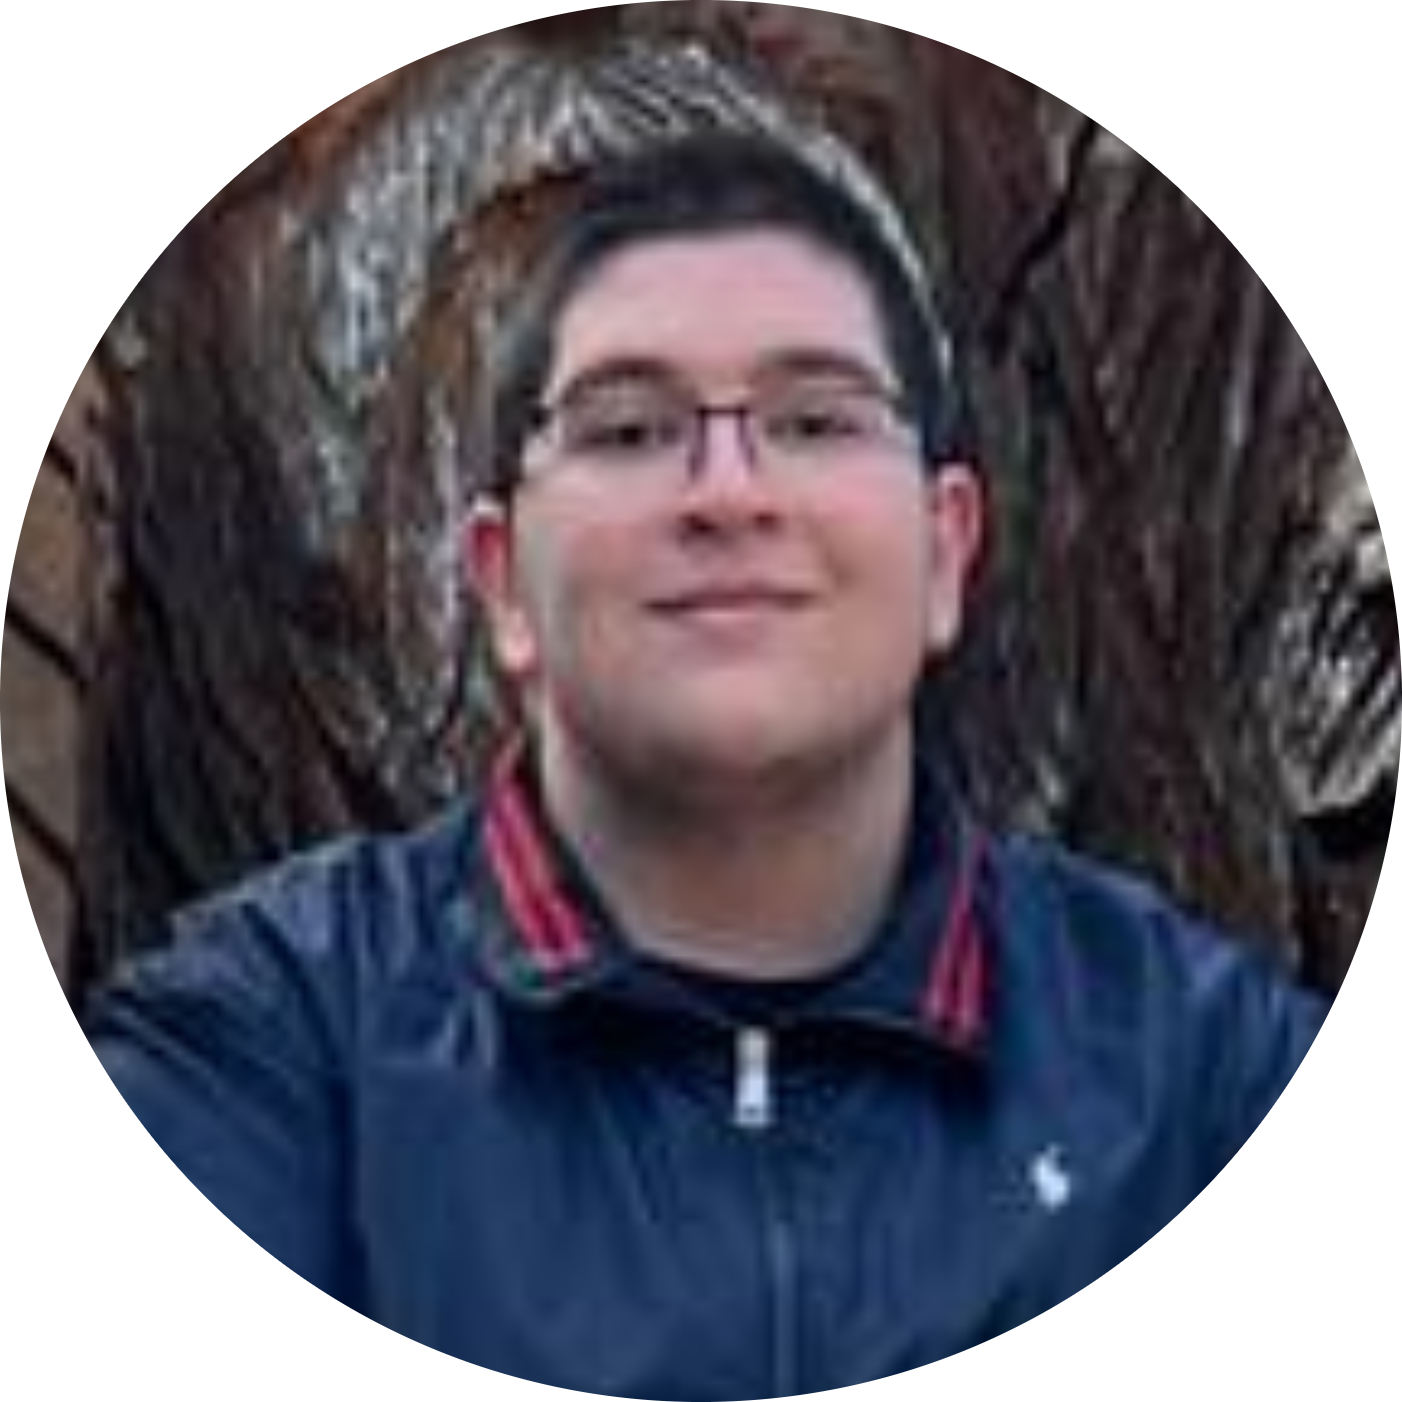
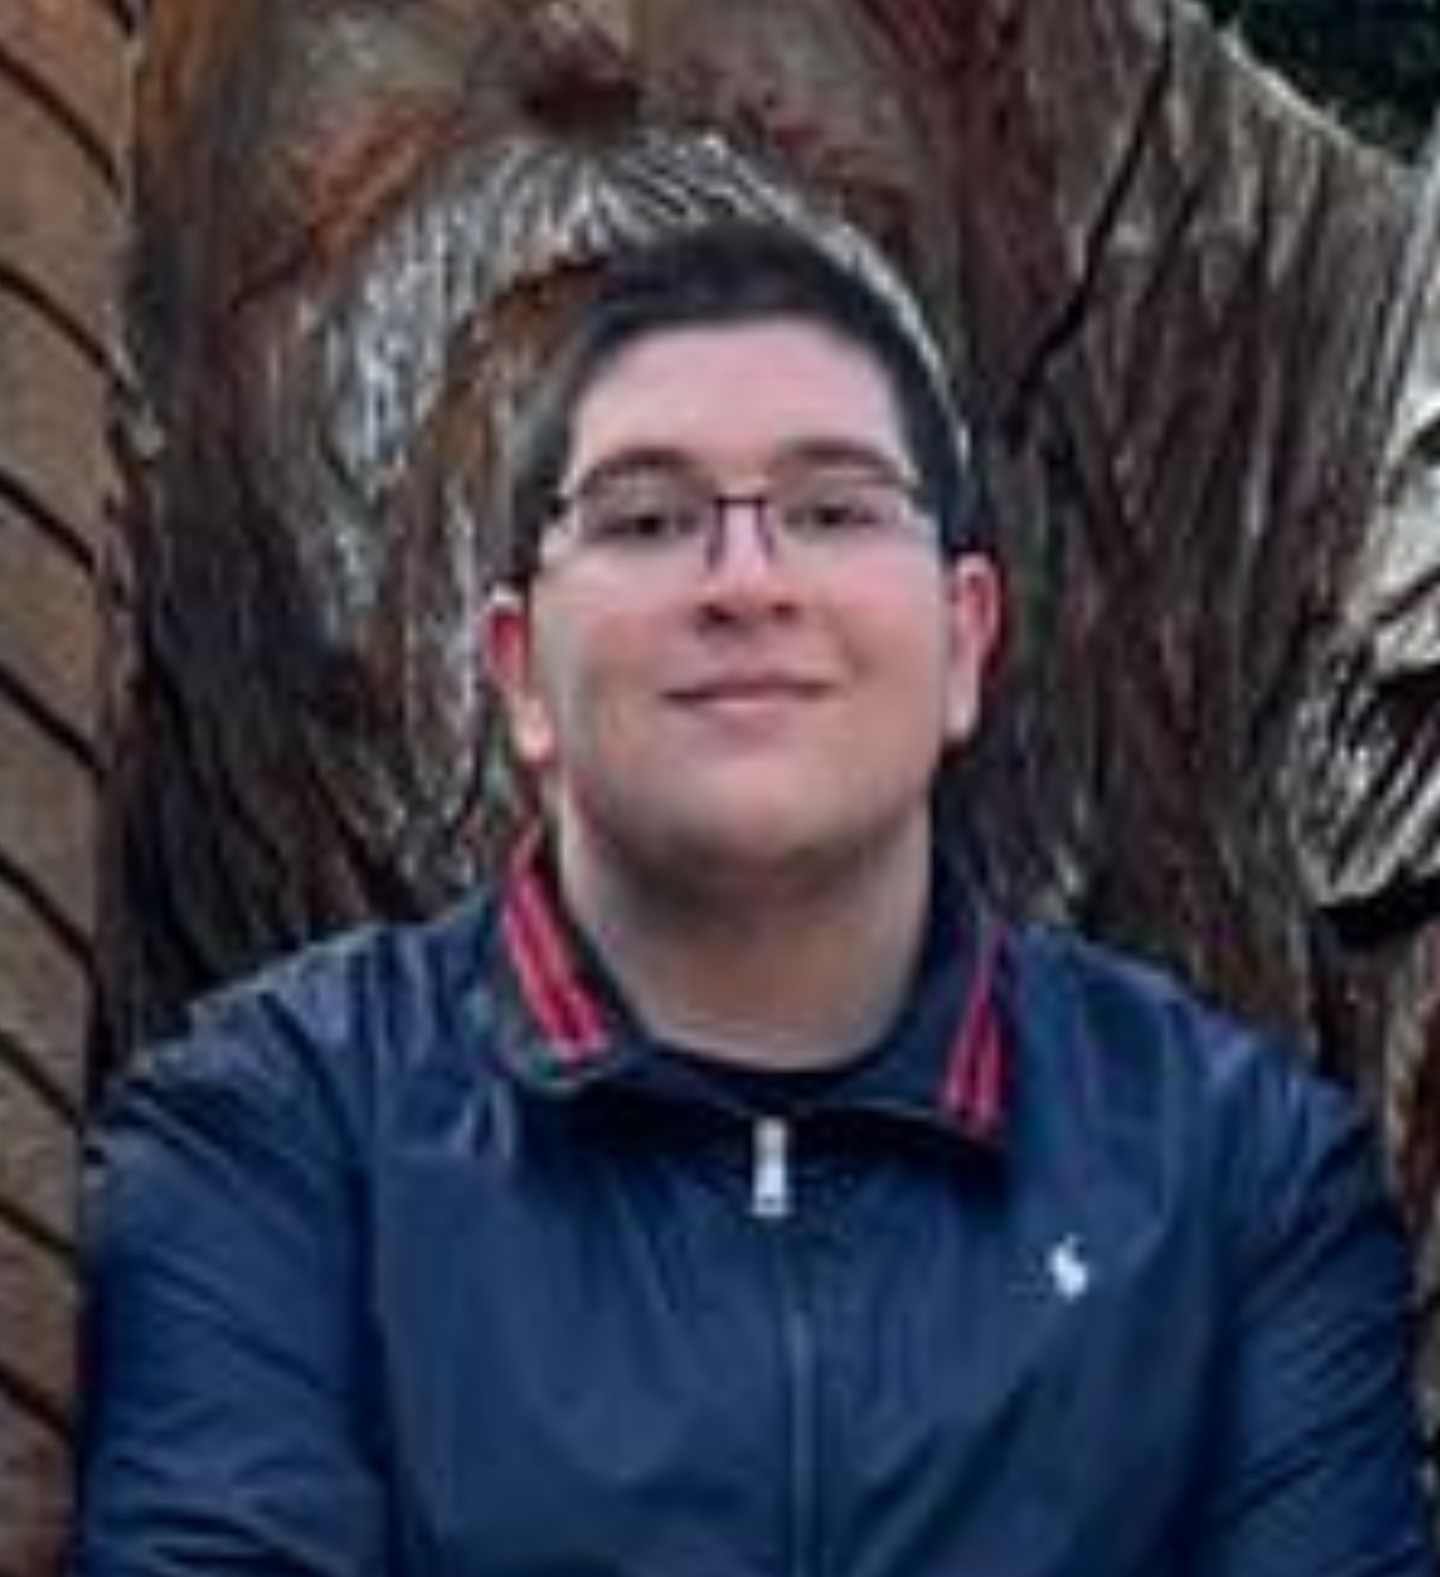
updated team page

diff --git a/public/HTML/team.html b/public/HTML/team.html
@@ -38,16 +38,16 @@
         <div class="our_team">
             <div class="team_member">
               <div class="member_img">
-                 <img src="../images/team_images/deniz.png" alt="our_team">
+                 <img src="../images/team_images/marc.png" alt="our_team">
                 <div class="social_media">
                     <a href = "https://www.linkedin.com/in/deniz-jasarbasic-7ab012208/" div class="linkedin item"><i class="fab fa-linkedin-in"></i></a>
                     <a href = "mailto: djasa098@uottawa.ca" div class="user item"><i class="fas fa-user-alt"></i></a>
-                    <a href = "https://www.instagram.com/deniz_jasa/" div class="instagram item"><i class="fab fa-instagram"></i></a>
+                    <a href = "https://github.com/denizjasarbasic" div class="github item"><i class="fab fa-github"></i></a>
                  </div>
               </div>
               <h3>Deniz Jasarbasic</h3>
               <span>Chief Executive Officer</span>
-              <p>bla bla bla bla bla bla bla bla bla bla bla bla bla bla bla bla bla bla bla bla bla bla bla bla bla bla bla bla bla bla bla bla bla bla bla bla bla bla bla bla bla bla bla bla bla bla bla bla bla bla bla bla bla bla </p>
+              <p>bla bla bla bla bla bla bla bla bla bla bla bla bla bla bla bla bla bla bla bla bla bla bla bla bla bla bla bla bla bla bla bla bla bla bla bla </p>
             </div>
             <div class="team_member">
                <div class="member_img">
@@ -55,12 +55,12 @@
                  <div class="social_media">
                     <a href = "https://www.linkedin.com/in/marc-wakim-593246221/" div class="linkedin item"><i class="fab fa-linkedin-in"></i></a>
                     <a href = "mailto: mwaki069@uottawa.ca" div class="user item"><i class="fas fa-user-alt"></i></a>
-                    <a href = "https://www.instagram.com/marc.wakim/" div class="instagram item"><i class="fab fa-instagram"></i></a>
+                    <a href = "" div class="github item"><i class="fab fa-github"></i></a>
                  </div>
               </div>
               <h3>Marc Wakim</h3>
               <span>Chief Technology Officer</span>
-              <p>bla bla bla bla bla bla bla bla bla bla bla bla bla bla bla bla bla bla bla bla bla bla bla bla bla bla bla bla bla bla bla bla bla bla bla bla bla bla bla bla bla bla bla bla bla bla bla bla bla bla bla bla bla bla </p>
+              <p>bla bla bla bla bla bla bla bla bla bla bla bla bla bla bla bla bla bla bla bla bla bla bla bla bla bla bla bla bla bla bla bla bla bla bla bla </p>
           </div>
             <div class="team_member">
                <div class="member_img">
@@ -68,45 +68,44 @@
                  <div class="social_media">
                     <a href = "https://www.linkedin.com/in/nicholas-yeung-0a4139216" div class="linkedin item"><i class="fab fa-linkedin-in"></i></a>
                     <a href = "mailto: nyeun027@uottawa.ca" div class="user item"><i class="fas fa-user-alt"></i></a>
-                    <a href = "https://www.instagram.com/nickyeung_/" div class="instagram item"><i class="fab fa-instagram"></i></a>
+                    <a href = "https://github.com/NicholasYeung8" div class="github item"><i class="fab fa-github"></i></a>
                  </div>
               </div>
               <h3>Nicholas Yeung</h3>
               <span>Product Developer</span>
-              <p>bla bla bla bla bla bla bla bla bla bla bla bla bla bla bla bla bla bla bla bla bla bla bla bla bla bla bla bla bla bla bla bla bla bla bla bla bla bla bla bla bla bla bla bla bla bla bla bla bla bla bla bla bla bla </p>
+              <p>bla bla bla bla bla bla bla bla bla bla bla bla bla bla bla bla bla bla bla bla bla bla bla bla bla bla bla bla bla bla bla bla bla bla bla bla </p>
           </div>
-            <div class="team_member">
-               <div class="member_img">
-                 <img src="../images/team_images/abdelaziz.png" alt="our_team">
-                 <div class="social_media">
+     </div>
+
+              <div class="our_team">
+              <div class="team_member">
+                <div class="member_img">
+                  <img src="../images/team_images/marc.png" alt="our_team">
+                  <div class="social_media">
                     <a href = "https://www.linkedin.com/in/abdelaziz-amine-b3694a224/" div class="linkedin item"><i class="fab fa-linkedin-in"></i></a>
                     <a href = "mailto: aamin088@uottawa.ca" div class="user item"><i class="fas fa-user-alt"></i></a>
-                    <a href = "https://www.instagram.com/abdelazizamn/" div class="instagram item"><i class="fab fa-instagram"></i></a>
-                 </div>
+                    <a href = "https://github.com/Abdelaziz64" div class="github item"><i class="fab fa-github"></i></a>
+                  </div>
               </div>
               <h3>Abdelaziz Amine</h3>
               <span>Lead Developer</span>
-              <p>bla bla bla bla bla bla bla bla bla bla bla bla bla bla bla bla bla bla bla bla bla bla bla bla bla bla bla bla bla bla bla bla bla bla bla bla bla bla bla bla bla bla bla bla bla bla bla bla bla bla bla bla bla bla </p>
+              <p>bla bla bla bla bla bla bla bla bla bla bla bla bla bla bla bla bla bla bla bla bla bla bla bla bla bla bla bla bla bla bla bla bla bla bla bla </p>
           </div>  
-          <div class="team_member">
-            <div class="member_img">
-              <img src="../images/team_images/hiba.png" alt="our_team">
-              <div class="social_media">
-                <a href = "" div class="linkedin item"><i class="fab fa-linkedin-in"></i></a>
-                <a href = "mailto: hsoui030@uottawa.ca" div class="user item"><i class="fas fa-user-alt"></i></a>
-                <a href = "" div class="instagram item"><i class="fab fa-instagram"></i></a>
+              <div class="team_member">
+                <div class="member_img">
+                  <img src="../images/team_images/marc.png" alt="our_team">
+                  <div class="social_media">
+                    <a href = "https://www.linkedin.com/in/hiba-souihel-857899221/" div class="linkedin item"><i class="fab fa-linkedin-in"></i></a>
+                    <a href = "mailto: hsoui030@uottawa.ca" div class="user item"><i class="fas fa-user-alt"></i></a>
+                    <a href = "https://github.com/hibss61" div class="github item"><i class="fab fa-github"></i></a>
+                  </div>
+                </div>
+                <h3>Hiba Souheil</h3>
+                <span>Lead Developer</span>
+                <p>bla bla bla bla bla bla bla bla bla bla bla bla bla bla bla bla bla bla bla bla bla bla bla bla bla bla bla bla bla bla bla bla bla bla bla bla </p>
+              </div>  
               </div>
-           </div>
-           <h3>Hiba Souheil</h3>
-           <span>Lead Developer</span>
-           <p>bla bla bla bla bla bla bla bla bla bla bla bla bla bla bla bla bla bla bla bla bla bla bla bla bla bla bla bla bla bla bla bla bla bla bla bla bla bla bla bla bla bla bla bla bla bla bla bla bla bla bla bla bla bla </p>
-       </div>  
-     </div>
-    </div>
-    
-            
-    </div>	
-    
-        
+
+</div>
 </body>
 </html>

diff --git a/public/CSS/team.css b/public/CSS/team.css
@@ -144,69 +144,62 @@
   justify-content: center;
   flex-wrap: wrap;
   
+  
 }
 
 .our_team .team_member{
-  width: 250px;
-  margin: 5px;
+  width: 300px;
+  margin: 50px;
   background: #fff;
-  padding: 20px 10px;
-  border: 5px solid #3A94FA;
+  border: 3px solid #E0E0E0;
   box-sizing: border-box;
-  border-radius: 10px;
+  border-radius: 3px;
 }
 
 .our_team .team_member .member_img{
-  background: #e9e5fa;  
-  max-width: 190px;
-  width: 100%;
+  width: 294.5px;
   height: 190px;
-  margin: 0 auto;
-  border-radius: 50%;
-  padding: 5px;
-  position: relative;
-  cursor: pointer;
+  background-color: #E0E0E0;
 }
 
 .our_team .team_member .member_img img{
-  width: 100%;
-  height: 100%;
+  width: 95%;
+  height: 95%;
+  padding-top: 4px;
 }
 
 .our_team .team_member h3{
   font-size: 18px;
-  line-height: 18px;
-  letter-spacing: 2px;
+  line-height: 35px;
   margin: 15px 0 0px;
 }
 
 .our_team .team_member span{
-  font-size: 10px;
+  font-size: 15px;
   color: #3A94FA;
+  font-weight: bold;
 }
 
 .our_team .team_member p{
   margin-top: 20px;
   font-size: 14px;
-  line-height: 20px;
+  line-height: 26px;
   color: white;
+  text-indent: 100%
+
 }
 
 /* Social Media Icons */
 
 .our_team .team_member .member_img .social_media{
-  position: absolute;
-  top: 5px;
-  left: 5px;
-  background: rgba(0,0,0,0.65);
-  width: 95%;
-  height: 95%;
-  border-radius: 50%;
+  top: 450px;
+  left: 450px;
+  margin-top: 100px;
+  margin-left: 10px;
   display: flex;
   justify-content: center;
-  align-items: center;
-  transform: scale(0);
-  transition: all 0.5s ease;
+  /* transform: scale(0);
+  transition: all 0.5s ease; */
 }
 
 .our_team .team_member .member_img .social_media .item{
@@ -224,10 +217,51 @@
   font-size: 20px;
 }
 
-.our_team .team_member .member_img:hover .social_media{
-  transform: scale(1);
-}
 
 body {
   overflow-y:scroll;
+  overflow-x: hidden
+}
+
+/* ---------------------------------- Footer ---------------------------------- */
+
+hr {
+  position: relative;
+  top: 690px;
+  border-color: #ffffff;
+  background-color: #D6D6D6;
+}
+
+.footer ul {
+  position: relative;
+  display: flex;
+  top: 693px;
+  gap: 3em;
+  text-align: right;
+  list-style-position: inside;
+  left: 632px;
+}
+
+.footer ul a {
+  text-decoration: none;
+  font-family: 'Inter';
+  background-position: 100%;
+  font-size: 14px;
+  color: rgb(54, 145, 250);
+}
+
+.footer ul a:hover {
+  color: rgb(0, 88, 189);
+  transition: 0.3s ease;
+}
+
+.footer img {
+  position: relative;
+  top: 740px;
+  margin-left: 0px;
+}
+
+.footer li {
+  margin-bottom: 100px;
+  list-style-type: none;
 }
